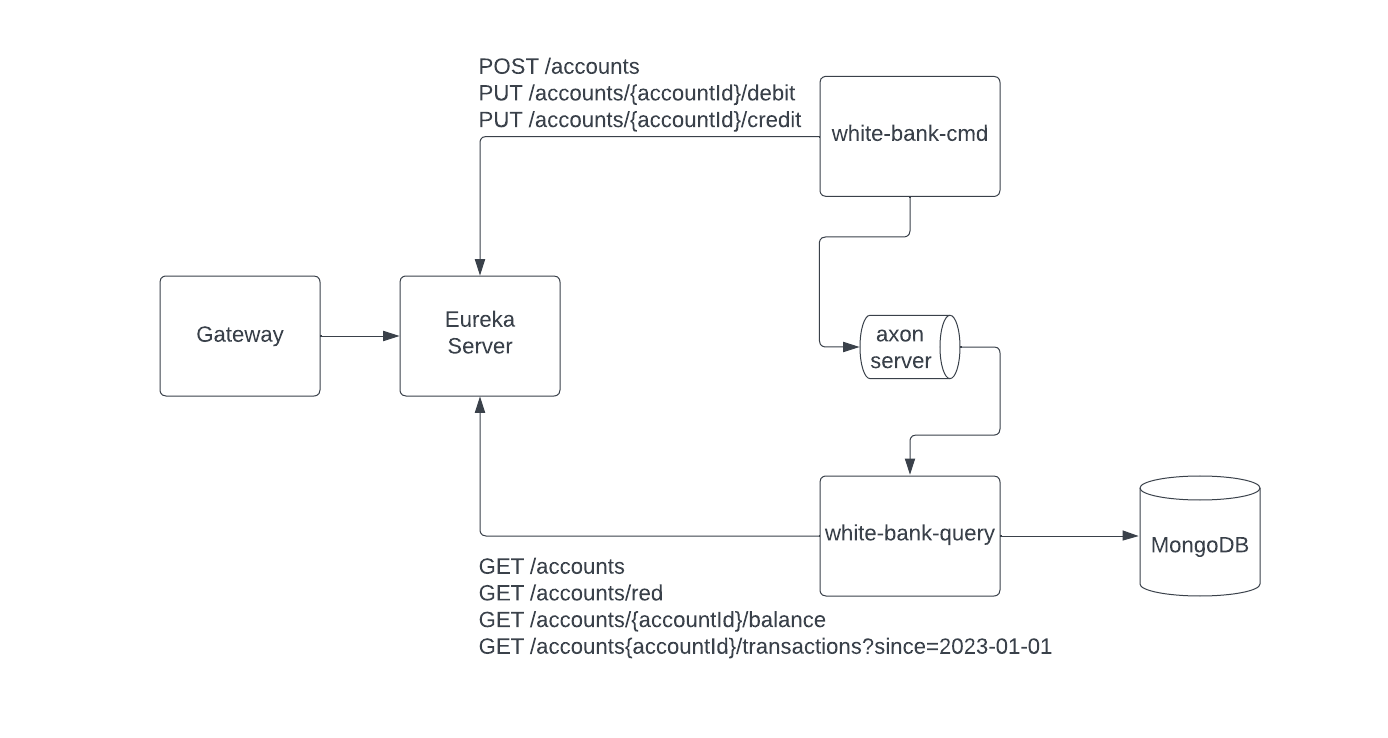
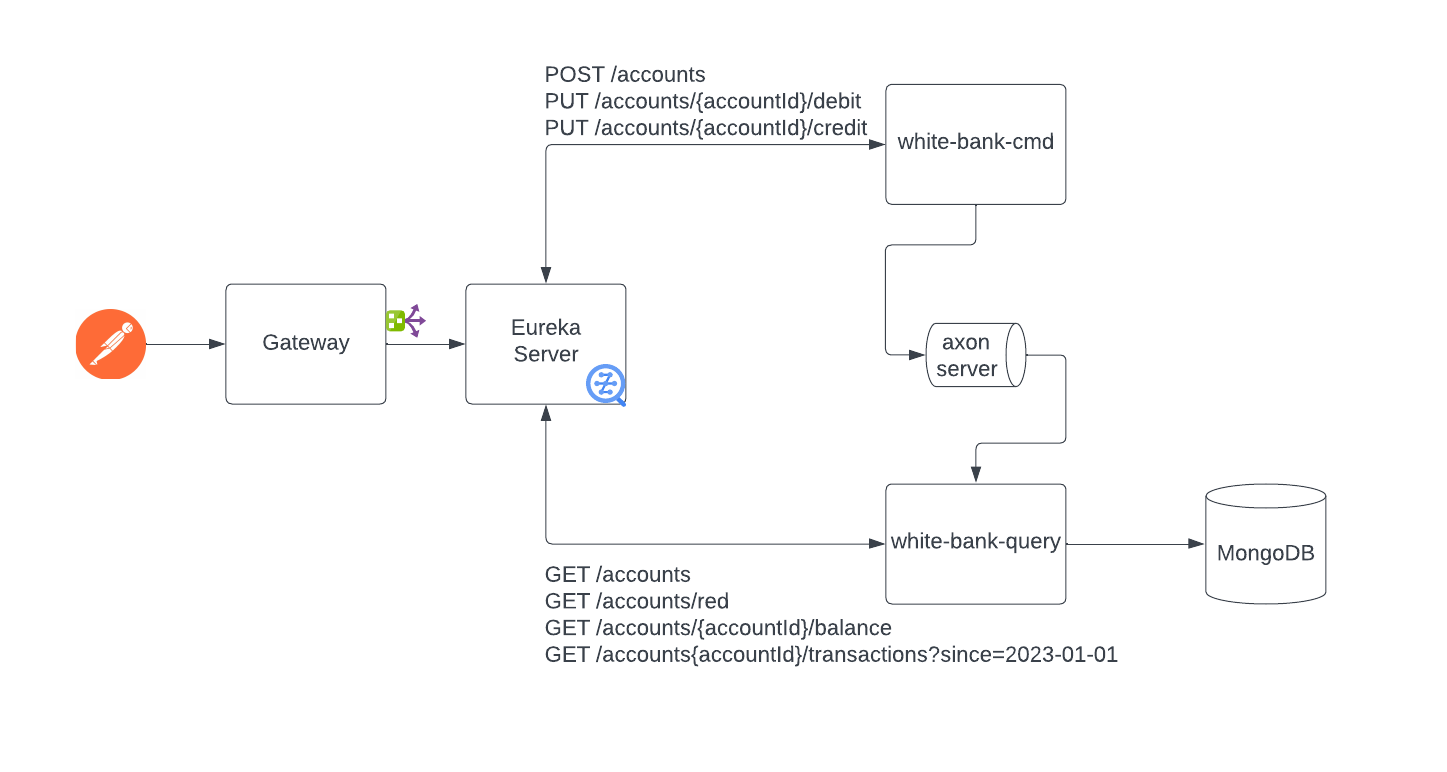
Added postman collection, and updated high level diagram

diff --git a/README.md b/README.md
@@ -52,4 +52,4 @@ Query
 TODO
 
 # Postman Collection
-TODO
+[Json](/assets/postman/White%20Bank.postman_collection.json)
